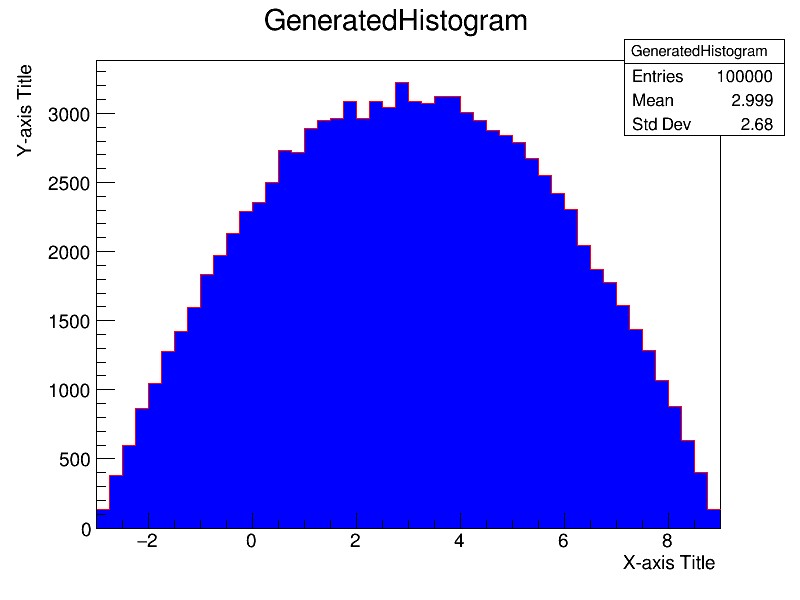
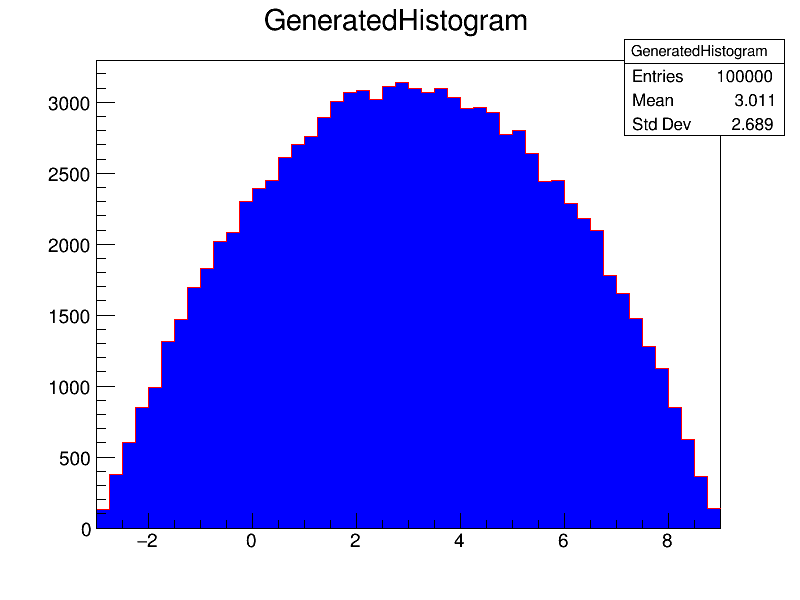
...

diff --git a/Kolokvij_1/PDFGenerator.cpp b/Kolokvij_1/PDFGenerator.cpp
@@ -29,8 +29,8 @@ void PDFGenerator::GenerateHistogram() {
     plotCanvas->SetTitle("Generated Histogram");  
 
     histogram->Draw("HIST");                       
-    histogram->GetXaxis()->SetTitle("X-axis Title");
-    histogram->GetYaxis()->SetTitle("Y-axis Title");
+    histogram->GetXaxis()->SetTitle(" ");
+    histogram->GetYaxis()->SetTitle(" ");
     histogram->GetXaxis()->SetLabelSize(0.035);    
     histogram->GetYaxis()->SetLabelSize(0.035);    
     histogram->SetFillColor(kBlue);               
